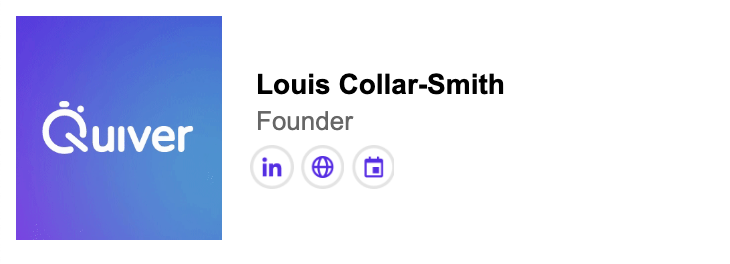
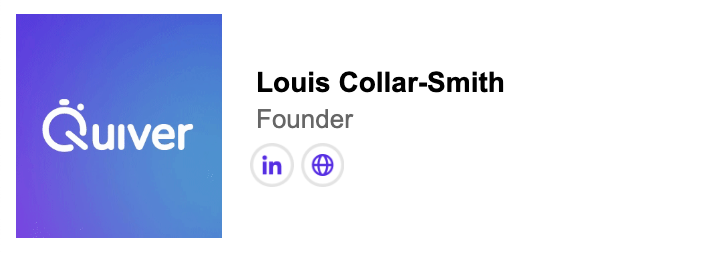
ENG-182: Remove calendly from default.png/html

diff --git a/templates/default.html b/templates/default.html
@@ -65,16 +65,6 @@
               />
             </a>
           </td>
-          <td style="padding: 0 0 0 3px">
-            <a href="https://calendly.com/louis-collar-smith/" target="_blank">
-              <img
-                src="https://bucket.mailersendapp.com/0r83ql3eyx4zw1jm/pxkjn41wm6lz7815/images/96a94672-61cf-4723-9510-61925afc75c6.png"
-                height="22"
-                width="22"
-                alt=""
-              />
-            </a>
-          </td>
         </tr>
       </table>
     </td>
